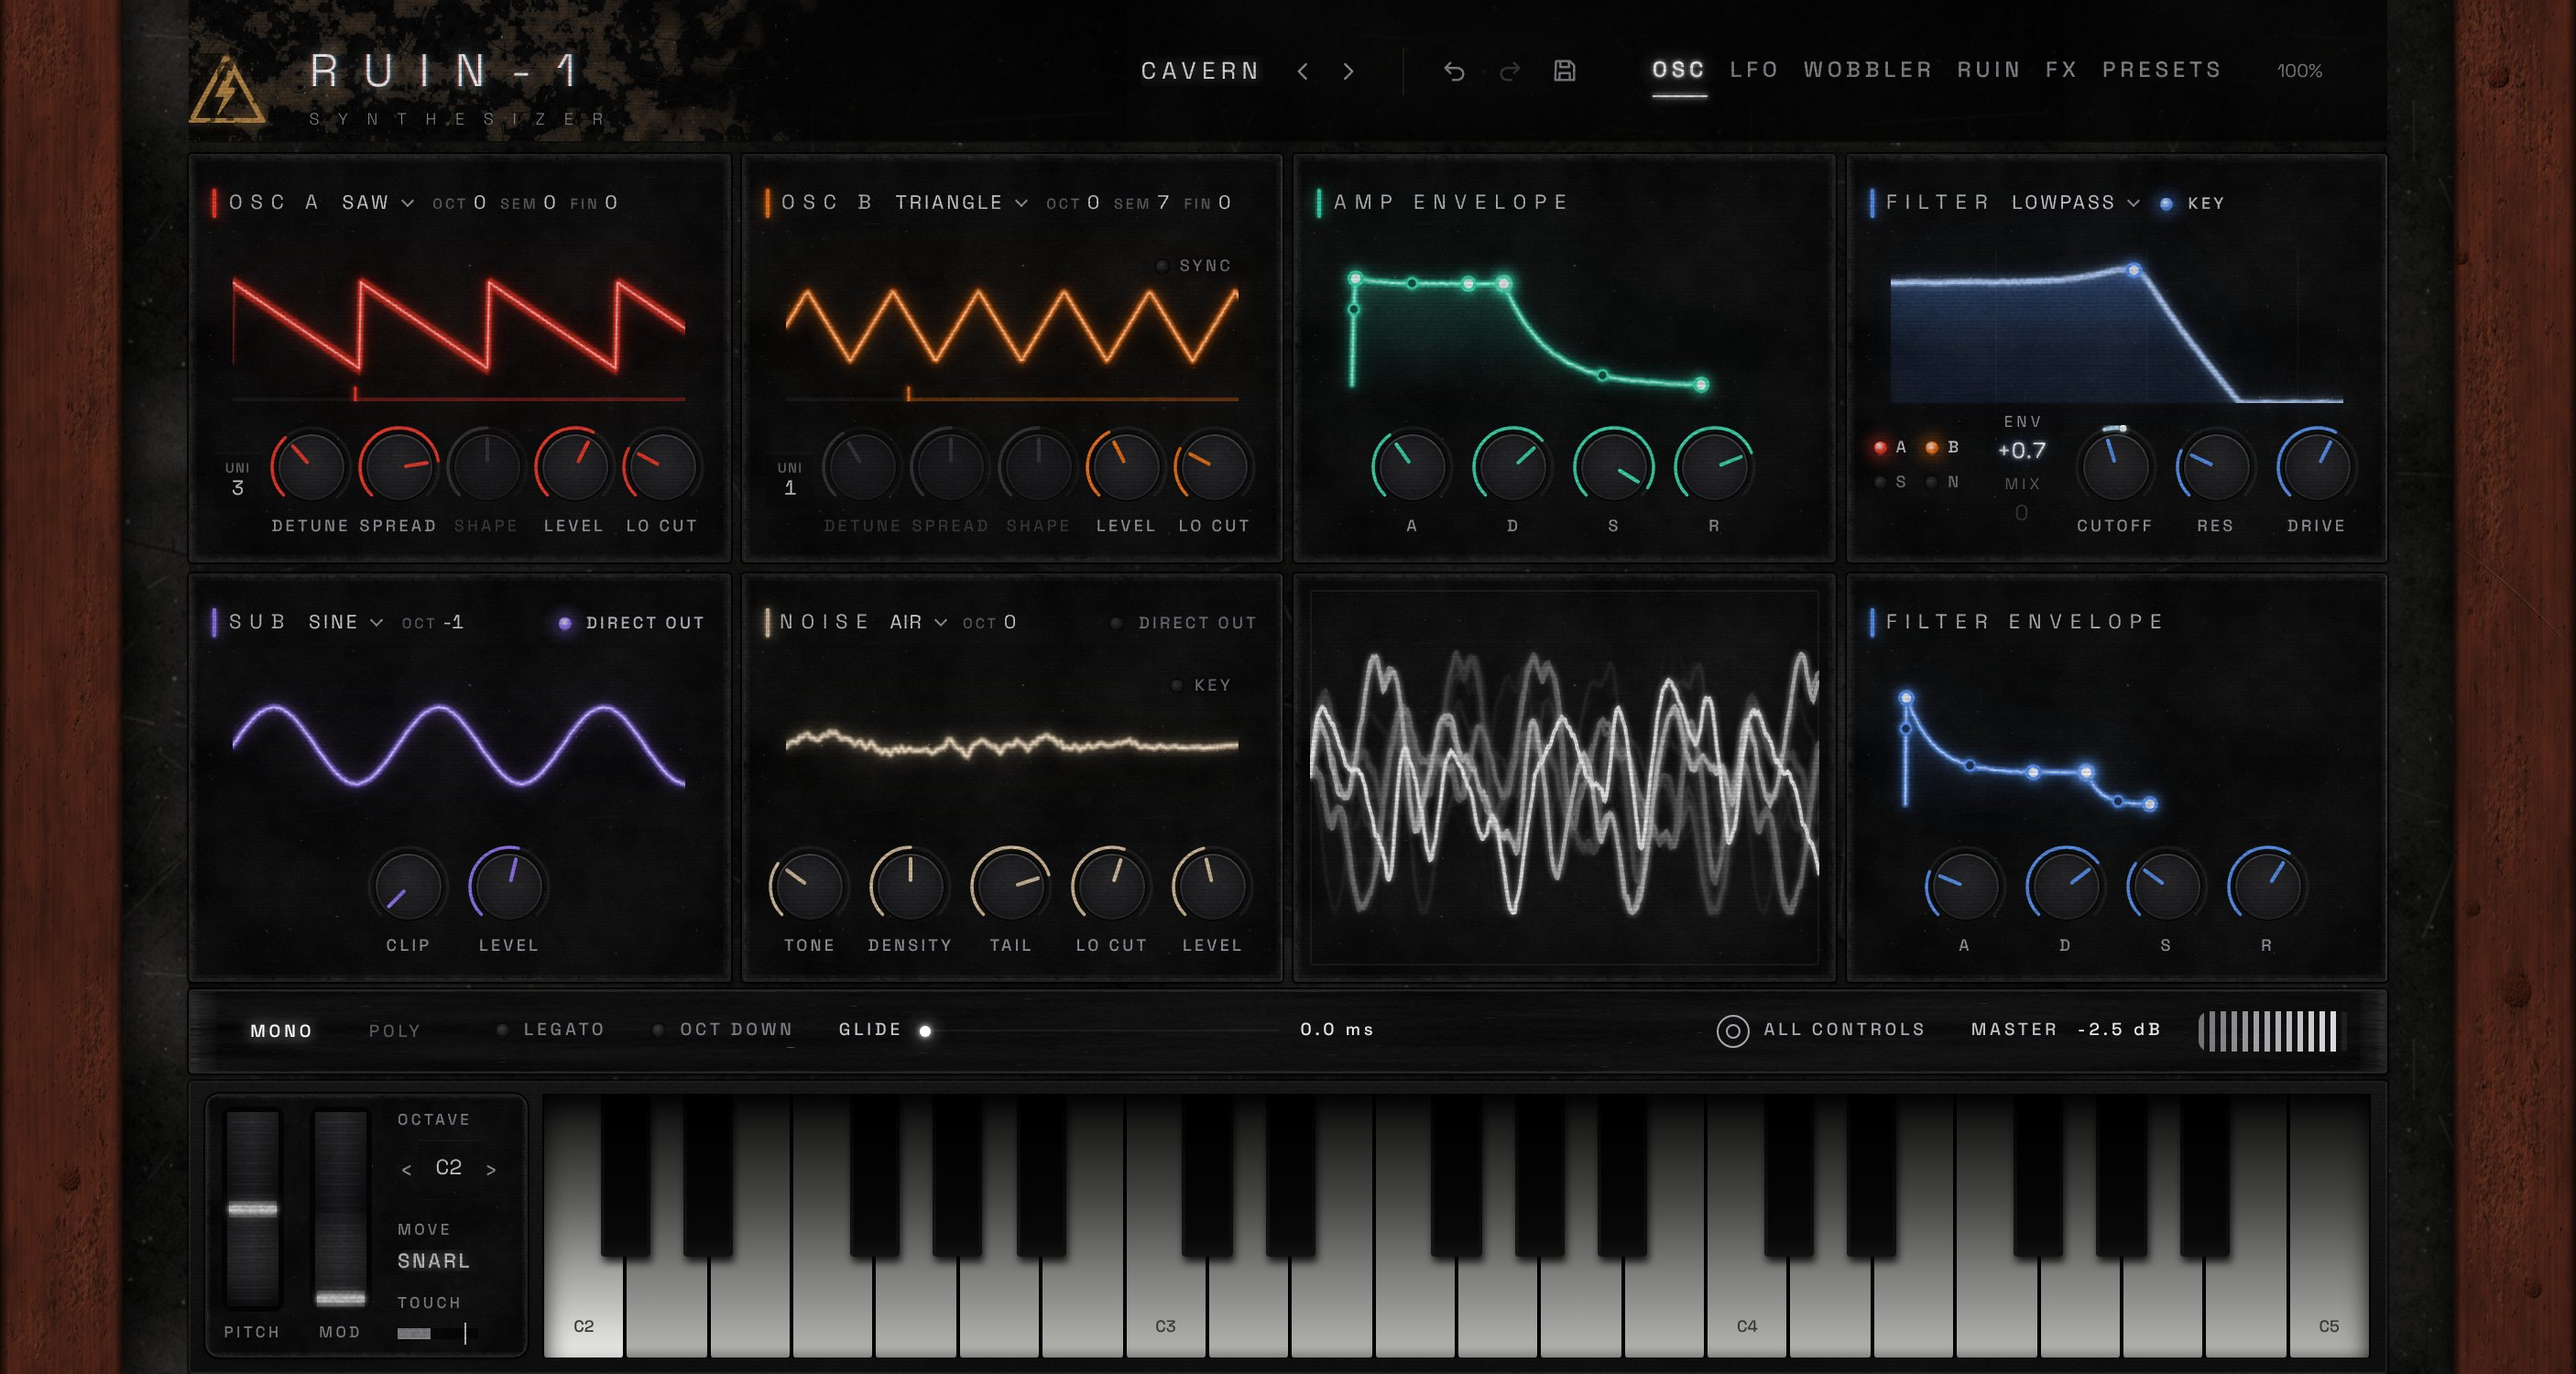
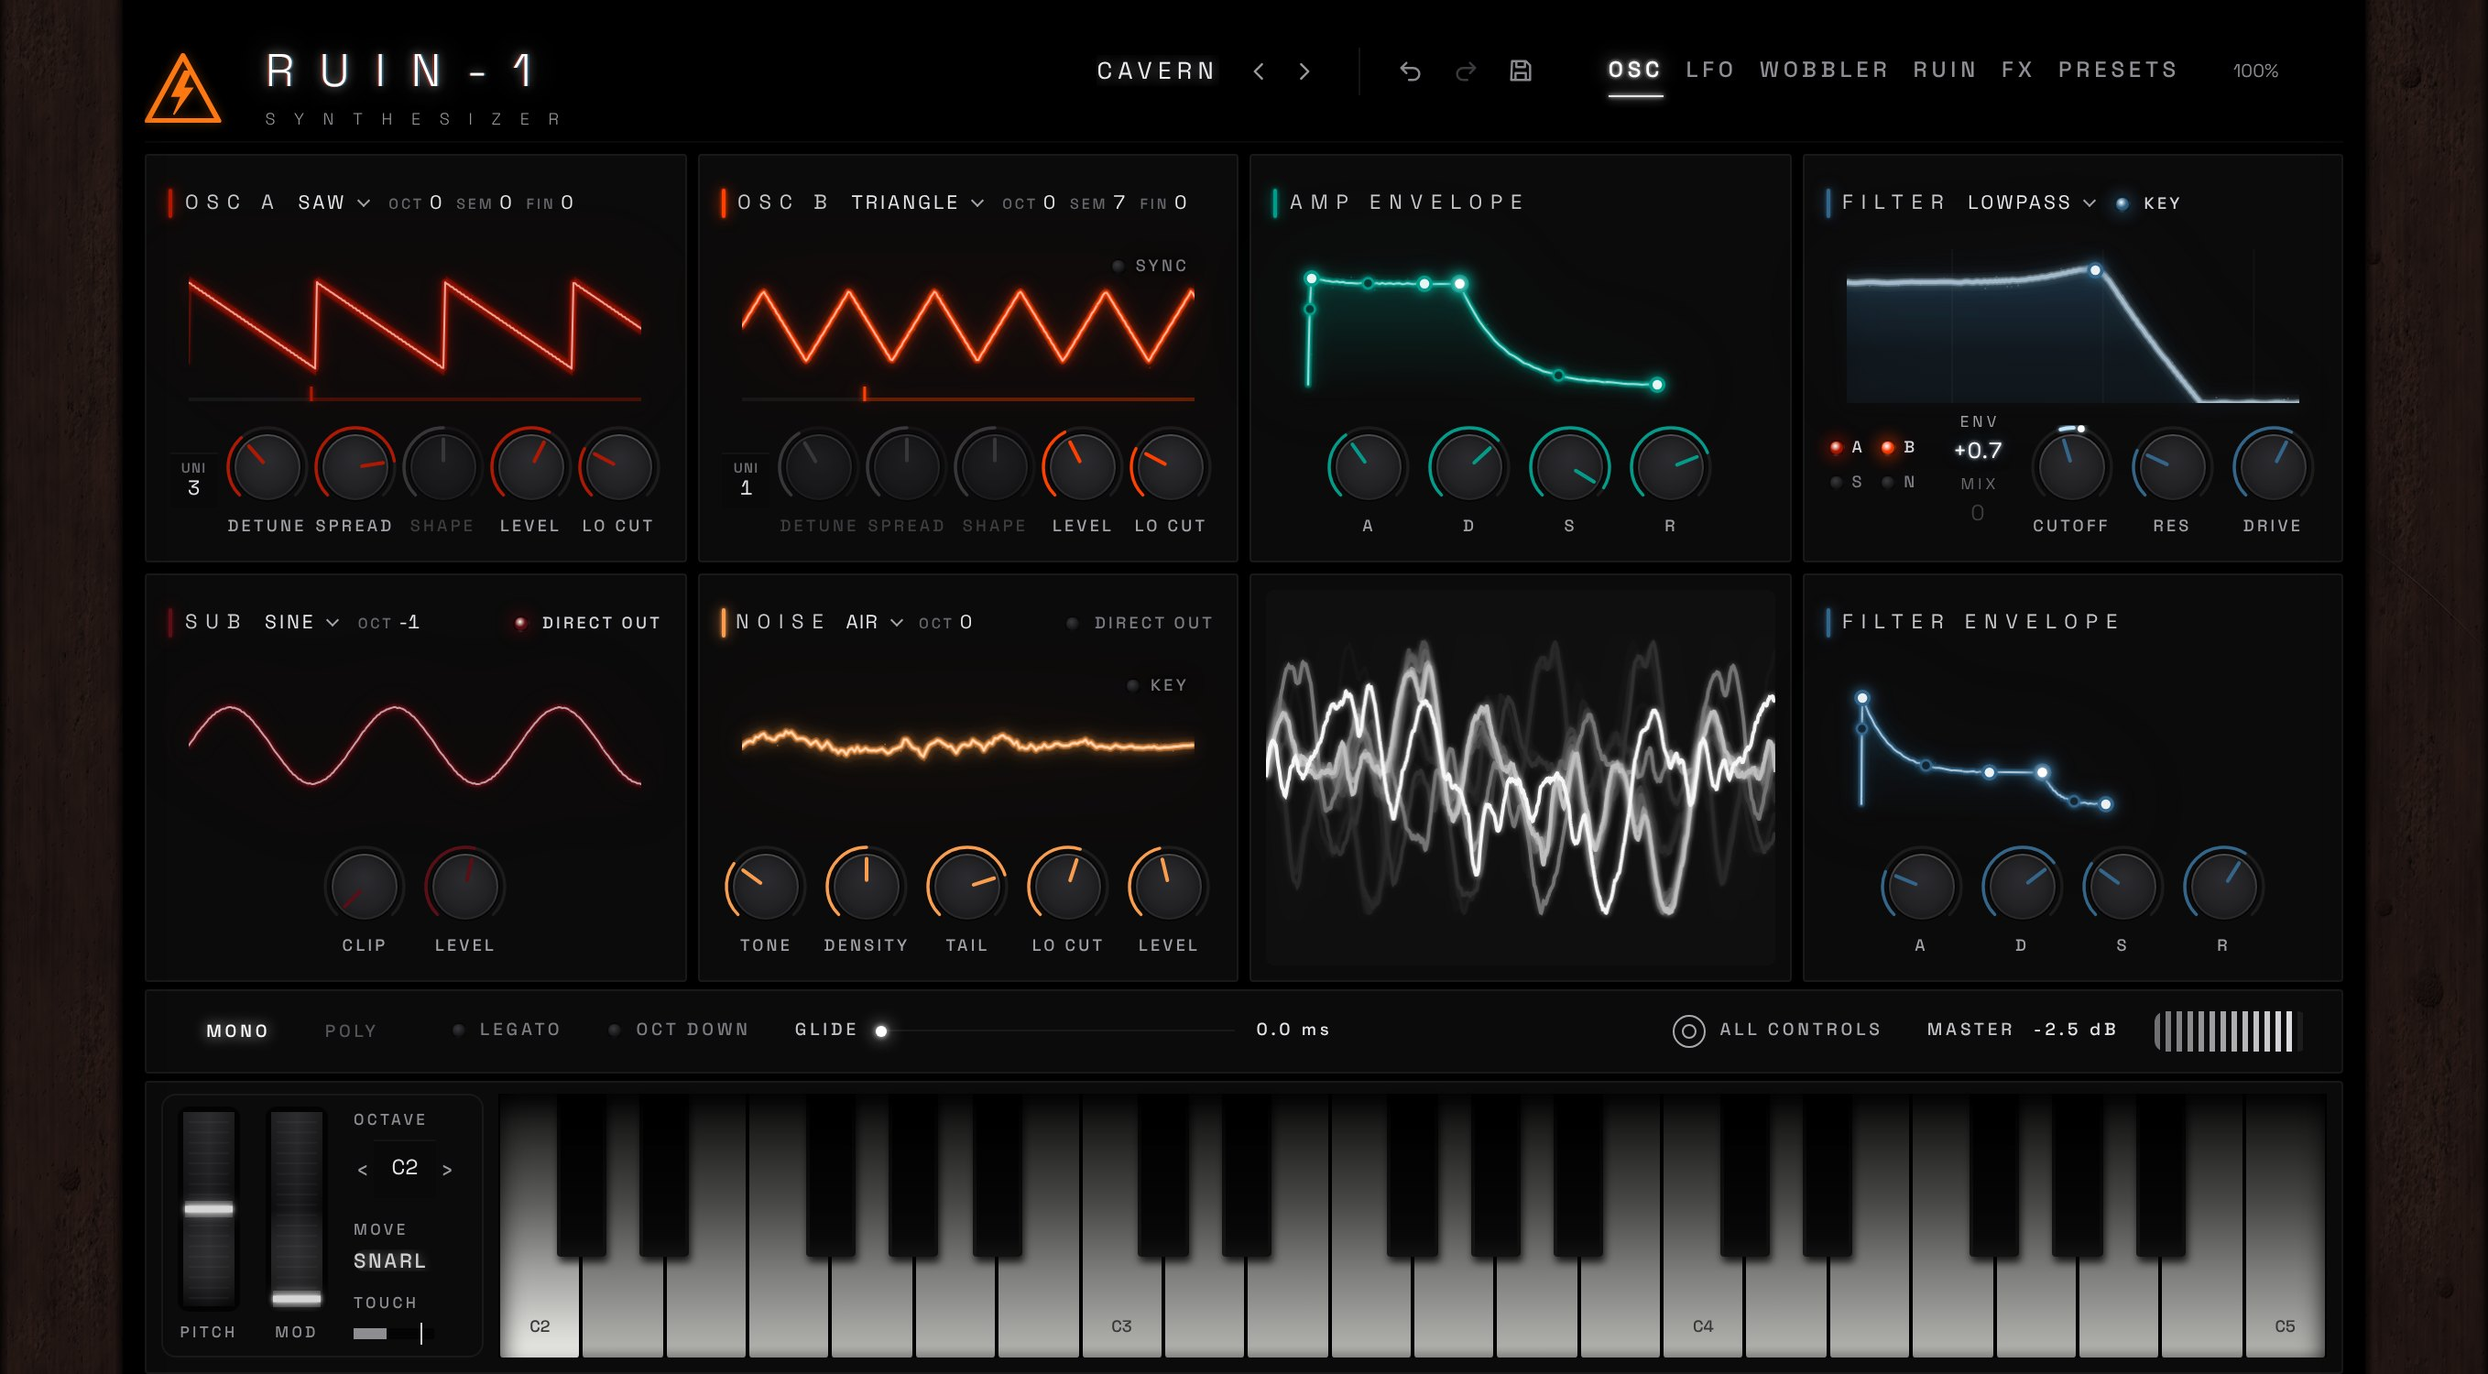
Colours from the owner's paint-over, on the website and the synth
Measured from the owner's painted screenshot: logo #fd7812 (design/ logo files and the synth's
logo, its dulling filter removed), Buy buttons #ff4000 (--buy), the synth's modules OSC A #af1904,
OSC B #ff4000, amp envelope #039c8b, filter and filter envelope #33668a, sub #5c0e17, noise #fa9d4f
(the routing LEDs follow their module), wood #201513 (brightness .6 saturate .49; measured
31.9/21.1/18.2). The website's synth images retaken. DESIGN.md updated.

Claude-Session: https://claude.ai/code/session_015t9iDSEcbpZBuL6vXJAvue

diff --git a/src/ui/style.css b/src/ui/style.css
@@ -672,12 +672,12 @@ html, body, .v2-wrap { background: #070708; }
 .v2 .lamp-safe { --knob-accent: #ff2a14; }
 
 /* each box its own colour */
-.v2 .box-osca { --knob-accent: #ff2a14; }
-.v2 .box-oscb { --knob-accent: #ff6a1a; }
-.v2 .box-amp { --knob-accent: #3fe3b6; }
-.v2 .box-flt, .v2 .box-fenv { --knob-accent: #5f9bff; }
-.v2 .box-sub { --knob-accent: #9a7cff; }
-.v2 .box-noise { --knob-accent: #e2c9a6; }
+.v2 .box-osca { --knob-accent: #af1904; }
+.v2 .box-oscb { --knob-accent: #ff4000; }
+.v2 .box-amp { --knob-accent: #039c8b; }
+.v2 .box-flt, .v2 .box-fenv { --knob-accent: #33668a; }
+.v2 .box-sub { --knob-accent: #5c0e17; }
+.v2 .box-noise { --knob-accent: #fa9d4f; }
 .v2 .box-scope { --knob-accent: #d8f0e6; }
 
 /* header: the scene behind the logo, the preset selector and the tabs */
@@ -1177,10 +1177,10 @@ html, body, .v2-wrap { background: #070708; }
    source's colour; an on/off lamp in front of every matrix row; All controls and Master on the right. */
 .v2 .ob-head > .direct-out { margin-left: auto; font-size: 9px; letter-spacing: 0.18em; white-space: nowrap; }
 .v2 .ob-dials .ob-routes { margin-left: 0 !important; margin-right: 6px; }
-.v2 .route-a { --knob-accent: #ff2a14; }
-.v2 .route-b { --knob-accent: #ff6a1a; }
-.v2 .route-s { --knob-accent: #9a7cff; }
-.v2 .route-n { --knob-accent: #e2c9a6; }
+.v2 .route-a { --knob-accent: #af1904; }
+.v2 .route-b { --knob-accent: #ff4000; }
+.v2 .route-s { --knob-accent: #5c0e17; }
+.v2 .route-n { --knob-accent: #fa9d4f; }
 .v2 .mx-on { flex: none; background: transparent; border: 0; padding: 0; margin-right: 2px; cursor: pointer; display: flex; }
 .v2 .mx-row.off > :not(.mx-on) { opacity: 0.32; }
 .v2 .v2-bottom .gear { margin-left: auto; }
@@ -1713,9 +1713,9 @@ html, body, .v2-wrap { background: #070708; }
 .v2 .v2-top > .pre-sel { position: absolute; z-index: 3; }
 /* measured: the top of RUIN-1's letters sits 28.8 px down the bar, the bottom of SYNTHESIZER's at 67.2 px */
 .v2 .v2-logo { flex: none; position: relative; margin-right: 18px; display: block; line-height: 0; align-self: flex-start !important; margin-top: 28.8px; --logo-h: 38.4px; }
-.v2 .v2-logo svg { display: block; height: var(--logo-h, 44px); width: auto; filter: drop-shadow(0 0 3px rgba(240,160,64,0.35)) saturate(0.85) brightness(0.92); }
-.v2 .v2-logo svg path { stroke: #d99a45; }
-.v2 .v2-logo svg path[fill] { fill: #d99a45; }
+.v2 .v2-logo svg { display: block; height: var(--logo-h, 44px); width: auto; filter: drop-shadow(0 0 3px rgba(253,120,18,0.35)); }
+.v2 .v2-logo svg path { stroke: #fd7812; }
+.v2 .v2-logo svg path[fill] { fill: #fd7812; }
 .v2 .v2-logo-wear { position: absolute; inset: 0; pointer-events: none; background: var(--logo-wear, none) 0 0 / 100% 100%; }
 .v2 .brand-name { text-shadow: -1px 0 rgba(255,42,20,0.35), 1px 0 rgba(60,190,255,0.3), 0 0 6px rgba(255,255,255,0.6), 0 0 18px rgba(255,255,255,0.3) !important; }
 .v2 .wood-l { background: var(--wood-l, #42201a) 0 0 / 100% 100% no-repeat; }
@@ -1742,4 +1742,4 @@ html, body, .v2-wrap, .v2.v2, .v2.v2 .v2-top, .v2.v2 .v2-main { background: #000
 .v2.v2 .scope-glass::after { display: none !important; }
 /* the wooden cheeks a really dark brown (owner's reference): the same wood at half its brightness, colour kept
    (measured: rgb ~34 / 15.5 / 10.5, every channel 49% of the original) */
-.v2 .wood { filter: brightness(.49); }
+.v2 .wood { filter: brightness(.6) saturate(.49); }

diff --git a/website/style.css b/website/style.css
@@ -4,7 +4,7 @@
 @font-face { font-family: Manrope; font-weight: 200 600; font-display: swap; src: url('../design/fonts/manrope-latin-var.woff2') format('woff2'); }
 :root {
   --ink: #ece8e4; --head: #f3eee8; --soft: #9b958f; --mute: #7a746f; --dim: #55504c;
-  --red: #ff2a14; --hot: #ff6a1a; --deep: #8a0a04;
+  --red: #ff2a14; --buy: #ff4000; --logo: #fd7812; --hot: #ff6a1a; --deep: #8a0a04;
   --ease: cubic-bezier(.2, .7, .2, 1);
 }
 * { box-sizing: border-box; margin: 0; padding: 0; }
@@ -17,8 +17,8 @@ button { font: inherit; color: inherit; background: none; border: 0; cursor: poi
 
 /* ---------- buttons: square, the main one solid alarm red */
 .btn { height: 48px; padding: 0 28px; display: inline-flex; align-items: center; justify-content: center; gap: 12px; font-size: 12px; font-weight: 600; letter-spacing: .22em; text-transform: uppercase; transition: box-shadow .3s, background .3s, border-color .3s; }
-.b1 { background: var(--red); color: #0a0100; box-shadow: 0 0 24px rgba(255,42,20,.45); }
-.b1:hover { box-shadow: 0 0 36px rgba(255,42,20,.75); }
+.b1 { background: var(--buy); color: #0a0100; box-shadow: 0 0 24px rgba(255,64,0,.45); }
+.b1:hover { box-shadow: 0 0 36px rgba(255,64,0,.75); }
 .b2 { border: 1px solid #4a4542; }
 .b2:hover { border-color: var(--ink); }
 .bs { height: 34px; padding: 0 16px; font-size: 11px; }

diff --git a/website/DESIGN.md b/website/DESIGN.md
@@ -30,7 +30,7 @@ All colours are CSS variables at the top of `website/style.css`.
 ### The siren (core)
 | Name | Hex | Variable | Use |
 |---|---|---|---|
-| Alarm red | `#ff2a14` | `--red` | Buy buttons and their glow, the play outline, active states, the carousel's active cue |
+| Alarm red | `#ff2a14` | `--red` | (Buy now uses `--buy` `#ff4000`, see below) the play outline, active states, the carousel's active cue |
 | Hot orange | `#ff6a1a` | `--hot` | Small labels (Sound, Inside, Specs), keyboard focus ring, the bright core of every glow |
 | Deep red | `#8a0a04` | `--deep` | The outer edge of glows, where the light falls off into black |
 
@@ -61,9 +61,15 @@ match that: pushed to the gamut edge at its hue, with its own glow.
 Visual sheet of the whole palette: ask Claude to render it (the owner keeps a PNG of it).
 
 ### Logo colour
-**Undecided.** Options pitched: alarm red `#ff2a14`, hot orange `#ff6a1a`, white-hot `#f6efe6` with a
-red glow. The current file (`design/logo.svg`, `design/logo-tight.svg`) is the old orange-gold `#f0a040`,
-which no longer fits the siren. Update this section when the owner picks.
+**Logo orange `#fd7812`** (`--logo`; owner's pick, painted on a screenshot): the logo files in `design/`
+(`logo.svg`, `logo-tight.svg`) and the synth's own logo use it.
+
+### Buy and the synth's colours (owner's paint-over)
+- **Buy buttons: `#ff4000`** (`--buy`), with a glow `rgba(255,64,0,.45)` (hover `.75`). Alarm red stays for the
+  other active states.
+- **The synth's modules** (`src/ui/style.css`, "each box its own colour"): OSC A `#af1904`, OSC B `#ff4000`,
+  amp envelope `#039c8b`, filter and filter envelope `#33668a`, sub `#5c0e17`, noise `#fa9d4f`; the routing LEDs
+  A / B / S / N follow their module. The wooden cheeks a dark brown, measured `#201513`.
 
 ---
 
